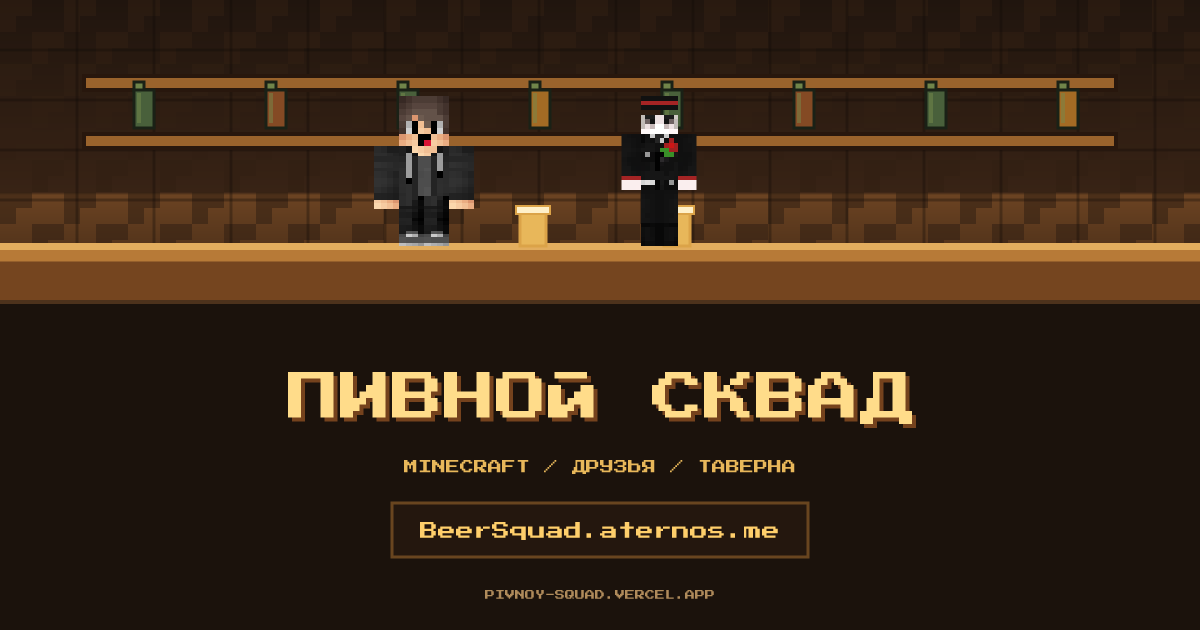
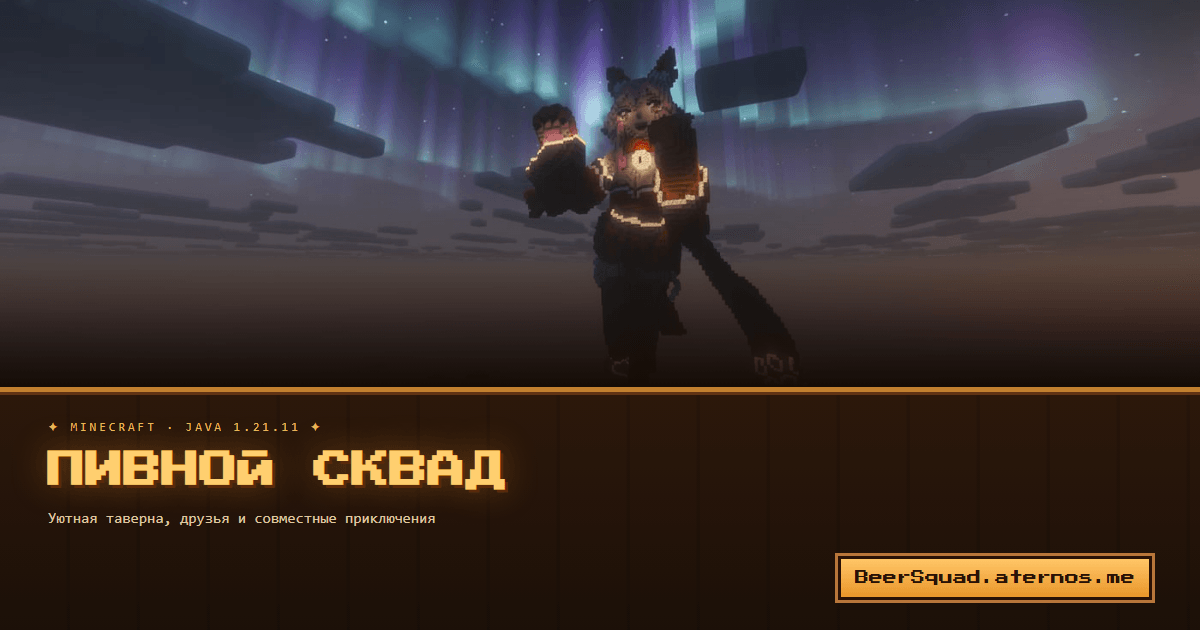
Галерея «Наши края», лайтбокс, кэш статуса, кнопка «наверх» и новое превью

diff --git a/index.html b/index.html
@@ -1,9 +1,10 @@
-<!doctype html><html lang="ru"><head><meta charset="utf-8"><meta name="viewport" content="width=device-width,initial-scale=1"><title>Пивной Сквад — Minecraft-сервер</title><meta name="description" content="Minecraft-сервер «Пивной Сквад»: уютная таверна, друзья и совместные приключения. Адрес сервера BeerSquad.aternos.me, есть Discord."><meta name="theme-color" content="#160f0a"><meta property="og:type" content="website"><meta property="og:site_name" content="Пивной Сквад"><meta property="og:title" content="Пивной Сквад — Minecraft-сервер"><meta property="og:description" content="Minecraft, друзья и уютная таверна после долгих приключений. Заходи на сервер BeerSquad.aternos.me."><meta property="og:url" content="https://pivnoy-squad.vercel.app/"><meta property="og:locale" content="ru_RU"><meta name="twitter:card" content="summary_large_image"><meta property="og:image" content="https://pivnoy-squad.vercel.app/assets/og-image.png"><meta property="og:image:width" content="1200"><meta property="og:image:height" content="630"><meta property="og:image:alt" content="Таверна Пивного Сквада: два скина у стойки и вывеска"><meta name="twitter:image" content="https://pivnoy-squad.vercel.app/assets/og-image.png"><link rel="icon" href="/assets/favicon.svg" type="image/svg+xml"><link rel="icon" href="/assets/favicon-32.png" sizes="32x32" type="image/png"><link rel="apple-touch-icon" href="/assets/apple-touch-icon.png"><script>try{var psT=localStorage.getItem("ps-theme");if(psT==="dark"||(!psT&&matchMedia("(prefers-color-scheme:dark)").matches))document.documentElement.classList.add("dark")}catch(e){}</script><style>@font-face{font-family:'Press Start 2P';font-style:normal;font-weight:400;font-display:swap;src:url('/assets/fonts/pressstart2p-cyrillic.woff2') format('woff2');unicode-range:U+0301,U+0400-045F,U+0490-0491,U+04B0-04B1,U+2116}@font-face{font-family:'Press Start 2P';font-style:normal;font-weight:400;font-display:swap;src:url('/assets/fonts/pressstart2p-latin.woff2') format('woff2');unicode-range:U+0000-00FF,U+0131,U+0152-0153,U+02BB-02BC,U+02C6,U+02DA,U+02DC,U+0304,U+0308,U+0329,U+2000-206F,U+20AC,U+2122,U+2191,U+2193,U+2212,U+2215,U+FEFF,U+FFFD}
+<!doctype html><html lang="ru"><head><meta charset="utf-8"><meta name="viewport" content="width=device-width,initial-scale=1"><title>Пивной Сквад — Minecraft-сервер</title><meta name="description" content="Minecraft-сервер «Пивной Сквад»: уютная таверна, друзья и совместные приключения. Адрес сервера BeerSquad.aternos.me, есть Discord."><meta name="theme-color" content="#160f0a"><meta name="color-scheme" content="dark light"><meta property="og:type" content="website"><meta property="og:site_name" content="Пивной Сквад"><meta property="og:title" content="Пивной Сквад — Minecraft-сервер"><meta property="og:description" content="Minecraft, друзья и уютная таверна после долгих приключений. Заходи на сервер BeerSquad.aternos.me."><meta property="og:url" content="https://pivnoy-squad.vercel.app/"><meta property="og:locale" content="ru_RU"><meta name="twitter:card" content="summary_large_image"><meta property="og:image" content="https://pivnoy-squad.vercel.app/assets/og-image.png"><meta property="og:image:width" content="1200"><meta property="og:image:height" content="630"><meta property="og:image:alt" content="Полярное сияние над парящими островами и вывеска таверны Пивного Сквада"><meta name="twitter:image" content="https://pivnoy-squad.vercel.app/assets/og-image.png"><link rel="icon" href="/assets/favicon.svg" type="image/svg+xml"><link rel="icon" href="/assets/favicon-32.png" sizes="32x32" type="image/png"><link rel="apple-touch-icon" href="/assets/apple-touch-icon.png"><link rel="preload" href="/assets/fonts/pressstart2p-cyrillic.woff2" as="font" type="font/woff2" crossorigin><script>try{var psT=localStorage.getItem("ps-theme");if(psT==="dark"||(!psT&&matchMedia("(prefers-color-scheme:dark)").matches))document.documentElement.classList.add("dark")}catch(e){}</script><style>@font-face{font-family:'Press Start 2P';font-style:normal;font-weight:400;font-display:swap;src:url('/assets/fonts/pressstart2p-cyrillic.woff2') format('woff2');unicode-range:U+0301,U+0400-045F,U+0490-0491,U+04B0-04B1,U+2116}@font-face{font-family:'Press Start 2P';font-style:normal;font-weight:400;font-display:swap;src:url('/assets/fonts/pressstart2p-latin.woff2') format('woff2');unicode-range:U+0000-00FF,U+0131,U+0152-0153,U+02BB-02BC,U+02C6,U+02DA,U+02DC,U+0304,U+0308,U+0329,U+2000-206F,U+20AC,U+2122,U+2191,U+2193,U+2212,U+2215,U+FEFF,U+FFFD}
 *{box-sizing:border-box}html{scroll-behavior:smooth}body{margin:0;padding:26px 12px;background:#150c06;color:#fff0c9;font-family:ui-monospace,'Cascadia Mono',Consolas,'Liberation Mono','Courier New',monospace;background-image:radial-gradient(130% 72% at 50% -8%,#6b3a17cc 0%,#3a1f0d66 44%,transparent 74%),repeating-linear-gradient(90deg,transparent 0 46px,#0000002b 47px 50px),repeating-linear-gradient(180deg,transparent 0 132px,#0000001a 133px 136px),linear-gradient(#1e1109,#120b06)} .wrap{width:min(900px,100%);margin:auto;min-width:0}.top{display:flex;justify-content:space-between;gap:8px;flex-wrap:wrap;color:#e8b75a;font-size:10px;letter-spacing:1px;margin-bottom:12px}.pixel{font-family:'Press Start 2P',monospace}.jump{display:flex;gap:7px;justify-content:center;flex-wrap:wrap;margin:12px 0 18px}.jump a{color:#ffcf6b;text-decoration:none;border:2px solid #532e13;background:linear-gradient(#321b0d,#221209);padding:9px;font-size:11px;box-shadow:inset 0 2px 0 #6b3d1b,0 3px 0 #0a0503}
 .jump a:nth-child(1){transform:rotate(-1.7deg)}
 .jump a:nth-child(2){transform:rotate(1deg)}
 .jump a:nth-child(3){transform:rotate(-.9deg)}
-.jump a:nth-child(4){transform:rotate(1.5deg)}.scene{height:clamp(320px,58vw,470px);position:relative;overflow:hidden;border:4px solid #2a1408;background:linear-gradient(#170d07,#2e190c 60%,#3d2311 64%,#241207);box-shadow:0 0 0 3px #0a0503,inset 0 0 70px 22px #0b0603a6}
+.jump a:nth-child(4){transform:rotate(1.5deg)}
+.jump a:nth-child(5){transform:rotate(-1.1deg)}.scene{height:clamp(320px,58vw,470px);position:relative;overflow:hidden;border:4px solid #2a1408;background:linear-gradient(#170d07,#2e190c 60%,#3d2311 64%,#241207);box-shadow:0 0 0 3px #0a0503,inset 0 0 70px 22px #0b0603a6}
 .scene:before{content:"";position:absolute;inset:0;background:repeating-linear-gradient(90deg,transparent 0 51px,#0b060466 52px 55px),repeating-linear-gradient(90deg,#ffffff09 0 26px,transparent 26px 78px,#0000001f 78px 82px),repeating-linear-gradient(0deg,transparent 0 38px,#0b060452 39px 42px)}
 .scene:after{content:"";position:absolute;inset:0;z-index:2;pointer-events:none;background:radial-gradient(38% 42% at 7% 16%,#ff9a2e55,transparent 72%),radial-gradient(38% 42% at 93% 14%,#ff9a2e4a,transparent 72%),radial-gradient(56% 44% at 50% 94%,#ff9a2e38,transparent 76%),radial-gradient(64% 40% at 50% 54%,#ff8a1f1a,transparent 78%),radial-gradient(26% 30% at 30% 34%,#ffb34726,transparent 78%),radial-gradient(26% 30% at 70% 34%,#ffb34722,transparent 78%)}
 .post{position:absolute;top:0;bottom:0;width:3.5%;max-width:22px;background:linear-gradient(90deg,#180d06,#4c2c15 45%,#2a160a);border-right:2px solid #120a05;box-shadow:inset -6px 0 12px #00000059;z-index:3}
@@ -67,7 +68,19 @@
 @media(max-width:820px){.cask3{display:none}}
 @keyframes ln-flicker{0%,100%{filter:brightness(1)}48%{filter:brightness(1.14)}52%{filter:brightness(.96)}}
 @keyframes ps-puff{0%{opacity:0;transform:translateY(3px)}16%{opacity:.95}68%{opacity:.5}100%{opacity:0;transform:translateY(-9px)}}
-.content,.panel{background:repeating-linear-gradient(90deg,transparent 0 66px,#0000001f 67px 70px),linear-gradient(#2c180b,#1c1008);border:3px solid #3b1e0c;text-align:center;padding:clamp(18px,4vw,30px) clamp(12px,4vw,22px);margin-top:16px;min-width:0;overflow:hidden;box-shadow:inset 0 3px 0 #603314,inset 0 -4px 0 #0f0703,0 5px 0 #0a0503}.content{margin-top:0;border-top:0}.eyebrow{color:#e8b75a;font-size:10px;letter-spacing:1px;margin-bottom:18px}.title{font-size:clamp(18px,4.7vw,38px);line-height:1.5;color:#ffcf6f;text-shadow:3px 3px 0 #5a2a0a,0 0 30px #ffa63c4d;margin:0 0 14px;overflow-wrap:anywhere}.desc{font-size:clamp(13px,2.2vw,17px);line-height:1.8;color:#dfc9a4;max-width:650px;margin:0 auto 22px}.buttons{display:flex;justify-content:center;gap:10px;flex-wrap:wrap}.btn{display:inline-block;text-decoration:none;padding:13px 14px;border:3px solid #2a1206;background:linear-gradient(#ffc668,#e9962b);color:#2a1206;font-size:10px;box-shadow:0 0 0 3px #b8763a,4px 5px 0 #0b0603,0 0 24px #ff9a2e3d}
+.content,.panel{background:repeating-linear-gradient(90deg,transparent 0 66px,#0000001f 67px 70px),linear-gradient(#2c180b,#1c1008);border:3px solid #3b1e0c;text-align:center;padding:clamp(18px,4vw,30px) clamp(12px,4vw,22px);margin-top:16px;min-width:0;overflow:hidden;box-shadow:inset 0 3px 0 #603314,inset 0 -4px 0 #0f0703,0 5px 0 #0a0503}.content{margin-top:0;border-top:0}.eyebrow{color:#e8b75a;font-size:10px;letter-spacing:1px;margin-bottom:18px}.title{font-size:clamp(18px,4.7vw,38px);line-height:1.5;color:#ffcf6f;text-shadow:3px 3px 0 #5a2a0a,0 0 30px #ffa63c4d;margin:0 0 14px;overflow-wrap:anywhere}.desc{font-size:clamp(13px,2.2vw,17px);line-height:1.8;color:#dfc9a4;max-width:650px;margin:0 auto 22px}
+.shots{display:grid;grid-template-columns:repeat(3,1fr);gap:clamp(8px,1.6vw,14px);margin-top:4px}
+.shot{margin:0;background:linear-gradient(#2a1709,#1a0e06);border:3px solid #6b3f17;padding:6px;transform:rotate(-.6deg);box-shadow:0 0 0 3px #0c0703,0 8px 18px #00000073,inset 0 0 0 2px #ffd79a26}
+.shot:nth-child(even){transform:rotate(.6deg)}
+.shot.wide{grid-column:1/-1;transform:rotate(-.25deg)}
+.shot img{display:block;width:100%;height:auto;aspect-ratio:16/9;object-fit:cover;background:#0b0603;border:2px solid #241207}
+.shot a{display:block;cursor:zoom-in;text-decoration:none}
+.shot a:focus-visible{outline:3px solid #ffd777;outline-offset:3px}
+.shot figcaption{padding:8px 2px 2px;font-size:10px;letter-spacing:1px;text-transform:uppercase;color:#e8b75a;text-align:center}
+html.dark body .shot{background:linear-gradient(#1d1208,#150d07);border-color:#55320f;box-shadow:0 0 0 3px #0a0503,0 8px 18px #000000a6,inset 0 0 0 2px #ffd79a1f}
+@media(max-width:640px){.shots{grid-template-columns:repeat(2,1fr)}.shot.wide{grid-column:1/-1}}
+@media(max-width:480px){.shots{grid-template-columns:1fr}.shot.wide{grid-column:auto}}
+.buttons{display:flex;justify-content:center;gap:10px;flex-wrap:wrap}.btn{display:inline-block;text-decoration:none;padding:13px 14px;border:3px solid #2a1206;background:linear-gradient(#ffc668,#e9962b);color:#2a1206;font-size:10px;box-shadow:0 0 0 3px #b8763a,4px 5px 0 #0b0603,0 0 24px #ff9a2e3d}
 .btn.ghost{cursor:pointer;font-family:inherit;letter-spacing:1px;background:linear-gradient(#3b2010,#241309);color:#ffcf6b;border-color:#2a1206;box-shadow:0 0 0 3px #6b3d1b,4px 5px 0 #0b0603}
 .buttons .btn{min-width:15ch;text-align:center}.ip{margin-top:16px;border:3px solid #45250f;background:linear-gradient(#241408,#1a0f07);padding:14px;display:flex;align-items:center;justify-content:space-between;gap:12px;flex-wrap:wrap;min-width:0;box-shadow:inset 0 2px 0 #55300f,0 4px 0 #0a0503}.ip small{display:block;color:#bda17a;font-size:10px;margin-bottom:8px}.ip strong{font-family:'Press Start 2P',monospace;font-size:clamp(9px,2.4vw,15px);color:#ffcf6b;overflow-wrap:anywhere}.copy{cursor:pointer;border:2px solid #8b5a2b;background:linear-gradient(#3d2411,#2a1709);color:#ffe7b2;padding:10px;font-family:inherit;font-size:10px;box-shadow:inset 0 2px 0 #5e3317,0 3px 0 #0a0503}.panel h2{font-family:'Press Start 2P',monospace;font-size:clamp(13px,3vw,21px);line-height:1.7;color:#ffcf6f;text-shadow:2px 2px 0 #5a2a0a;margin:0 0 20px;overflow-wrap:anywhere}.panel p{font-size:15px;line-height:1.8;color:#dfc9a4;text-align:left;margin:0 auto 13px;max-width:720px}.notice{display:flex;gap:12px;text-align:left;align-items:flex-start;padding:13px;border:2px solid #532e13;background:linear-gradient(#2a170c,#1d1008);margin:12px 0;box-shadow:inset 0 2px 0 #5e3317}.pin{font-size:22px;color:#e8b75a}.notice strong{display:block;color:#ffdc8a;font-size:15px;margin-bottom:7px}.notice p{font-size:14px;line-height:1.7;margin:0}.foot{text-align:center;color:#b08b5b;font-size:11px;margin:22px 0;letter-spacing:1px}
 @media(max-width:480px){body{padding:18px 9px}.scene{height:320px}.character{height:145px;width:78px;bottom:18%}.char1{left:calc(50% - 92px)}.char2{left:calc(50% + 14px)}.skin{height:120px}.mugleft{left:calc(50% - 76px)}.mugright{left:calc(50% + 55px)}.sign{font-size:7px;padding:7px 10px;letter-spacing:0}.menu{display:none}.jump a{font-size:10px;padding:8px}.desc{line-height:1.7}.panel p{font-size:14px}.ip{align-items:flex-start}.copy{max-width:100%}}
@@ -138,6 +151,7 @@ html.dark body .step-num{background:#ffcf6f;color:#241408;box-shadow:2px 2px #4a
 .status-dot{width:10px;height:10px;flex:none;background:#8a7a63;box-shadow:0 0 0 1px #00000066}
 .status strong{font-size:10px;font-weight:400;letter-spacing:1px;color:#dfc9a4;line-height:1.6}
 .status-note{font-size:10px;letter-spacing:1px;color:#bda17a;line-height:1.6;padding-left:20px;min-width:0;max-width:100%;overflow:hidden;text-overflow:ellipsis;white-space:nowrap}
+.status-time{margin-left:auto;flex:none;font-size:9px;letter-spacing:.5px;color:#a58c69;white-space:nowrap;font-variant-numeric:tabular-nums}
 .status[data-state=online] .status-dot{background:#7fd25a;animation:ps-pulse 2.4s ease-in-out infinite}
 .status[data-state=online] strong{color:#bfe89a}
 .status[data-state=sleep] .status-dot{background:#e8b75a}
@@ -153,8 +167,29 @@ html.dark body .content,html.dark body .panel,html.dark body .ip,html.dark body 
 html.dark body .btn{box-shadow:0 0 0 3px #4a2c17,4px 5px 0 #0a0503}
 html.dark body .btn.ghost{box-shadow:3px 3px #0f0703}
 @media(min-width:821px){.title{transform:rotate(-1.1deg)}}
-</style></head><body><main class="wrap"><div class="top"><span>■ ПИВНОЙ СКВАД</span><span>JAVA · 1.21.11</span><button class="theme-toggle" id="themeToggle" type="button" aria-pressed="false"><span class="tt-ghost" aria-hidden="true">☀ СВЕТЛАЯ ТЕМА</span><span class="tt-live" id="themeLabel">☾ ТЁМНАЯ ТЕМА</span></button></div><nav class="jump"><a href="#taverna">ТАВЕРНА</a><a href="#start">КАК НАЧАТЬ</a><a href="#story">ИСТОРИЯ СКВАДА</a><a href="#board">ОБЪЯВЛЕНИЯ</a></nav>
-<section id="taverna" class="scene" aria-label="Таверна Пивного Сквада">
+@keyframes sign-sway{0%,100%{transform:translateX(-50%) rotate(-1.2deg)}50%{transform:translateX(-50%) rotate(-.65deg)}}
+.sign{animation:sign-sway 12s ease-in-out infinite}
+html.dark body .status-time{color:#9c8464}
+.lb{position:fixed;inset:0;z-index:60;display:grid;grid-template-columns:auto minmax(0,1fr) auto;align-items:center;justify-items:center;gap:clamp(4px,1.4vw,18px);padding:clamp(8px,2.4vw,26px);background:#070402fb}
+.lb[hidden]{display:none}
+.lb-fig{margin:0;min-width:0;max-height:100%;display:grid;justify-items:center;gap:10px}
+.lb img{max-width:100%;max-height:calc(100vh - 130px);width:auto;height:auto;border:3px solid #7a4a1e;background:#0b0603;box-shadow:0 0 0 3px #0c0703,0 18px 46px #000000b3}
+.lb figcaption{font-size:11px;letter-spacing:1px;text-transform:uppercase;color:#ffcf6b;text-align:center}
+.lb button{cursor:pointer;font-family:inherit;color:#ffcf6b;border:3px solid #532e13;background:linear-gradient(#321b0d,#221209);box-shadow:0 0 0 3px #0a0503,0 4px 0 #0a0503;width:clamp(36px,7vw,46px);height:clamp(36px,7vw,46px);font-size:20px;line-height:1;display:grid;place-items:center;padding:0}
+.lb button:hover{filter:brightness(1.12)}
+.lb-x{position:absolute;top:clamp(8px,2vw,18px);right:clamp(8px,2vw,18px);font-size:16px}
+.lb-count{position:absolute;left:0;right:0;bottom:clamp(6px,1.6vw,14px);text-align:center;font-size:10px;letter-spacing:1px;color:#bda17a;pointer-events:none;font-variant-numeric:tabular-nums}
+@media(max-width:560px){.lb{grid-template-columns:minmax(0,1fr);padding:10px 6px}.lb-prev,.lb-next{position:absolute;top:50%;transform:translateY(-50%);z-index:2}.lb-prev{left:6px}.lb-next{right:6px}.lb img{max-height:calc(100vh - 120px)}.lb figcaption{font-size:10px}}
+html.lb-open{overflow:hidden}
+.to-top{position:fixed;right:clamp(10px,2vw,20px);bottom:clamp(10px,2vw,20px);z-index:30;width:44px;height:44px;display:grid;place-items:center;padding:0;cursor:pointer;font-family:inherit;font-size:17px;line-height:1;color:#ffcf6b;border:3px solid #532e13;background:linear-gradient(#321b0d,#221209);box-shadow:0 0 0 3px #0a0503,0 4px 0 #0a0503;opacity:0;visibility:hidden;transform:translateY(8px);transition:opacity .22s,transform .22s,visibility .22s}
+.to-top.show{opacity:1;visibility:visible;transform:none}
+.to-top:hover{filter:brightness(1.12)}
+html.dark body .to-top{background:#1d1208;border-color:#55320f;box-shadow:0 0 0 3px #0a0503,3px 3px #0f0703}
+.skip{position:absolute;left:8px;top:-70px;z-index:70;padding:10px 14px;background:#ffcf6f;color:#241408;font-size:11px;letter-spacing:1px;text-decoration:none;border:3px solid #241408;transition:top .18s}
+.skip:focus{top:8px}
+@media(prefers-reduced-motion:reduce){.sign{animation:none}.to-top,.skip{transition:none}}
+</style></head><body><a class="skip" href="#taverna">Перейти к содержимому</a><main class="wrap"><div class="top"><span>■ ПИВНОЙ СКВАД</span><span>JAVA · 1.21.11</span><button class="theme-toggle" id="themeToggle" type="button" aria-pressed="false"><span class="tt-ghost" aria-hidden="true">☀ СВЕТЛАЯ ТЕМА</span><span class="tt-live" id="themeLabel">☾ ТЁМНАЯ ТЕМА</span></button></div><nav class="jump"><a href="#taverna">ТАВЕРНА</a><a href="#start">КАК НАЧАТЬ</a><a href="#story">ИСТОРИЯ СКВАДА</a><a href="#mir">МИР СКВАДА</a><a href="#board">ОБЪЯВЛЕНИЯ</a></nav>
+<section id="taverna" class="scene" tabindex="-1" aria-label="Таверна Пивного Сквада">
 <div class="post l" aria-hidden="true"></div><div class="post r" aria-hidden="true"></div>
 <div class="lantern ln1" aria-hidden="true"><i class="chain"></i></div><div class="lantern ln2" aria-hidden="true"><i class="chain"></i></div>
 <div class="sign">ТАВЕРНА СКВАДА</div>
@@ -202,11 +237,14 @@ html.dark body .btn.ghost{box-shadow:3px 3px #0f0703}
 </svg></section>
 <section class="content"><div class="eyebrow">✦ ЗАХОДИ В ТАВЕРНУ ✦</div><h1 class="title pixel">ПИВНОЙ СКВАД</h1><p class="desc">Minecraft, друзья и уютная таверна после долгих приключений. Строим, исследуем мир и собираемся у стойки после удачного похода!</p><div class="buttons"><a class="btn" href="https://discord.gg/PFUcCRhGb" target="_blank" rel="noreferrer">▣ НАШ DISCORD</a><button class="btn ghost" id="shareBtn" type="button">↗ ПОДЕЛИТЬСЯ</button></div><span class="sr-only" id="shareStatus" aria-live="polite"></span></section>
 <section class="ip"><div><small>АДРЕС ДЛЯ ПОДКЛЮЧЕНИЯ</small><strong>BeerSquad.aternos.me</strong></div><button class="copy" onclick="navigator.clipboard.writeText('BeerSquad.aternos.me').then(()=>{this.textContent='СКОПИРОВАНО!';document.getElementById('copyStatus').textContent='Адрес скопирован'}).catch(()=>{this.textContent='BeerSquad.aternos.me';document.getElementById('copyStatus').textContent='Не удалось скопировать, адрес показан на кнопке'})">КОПИРОВАТЬ IP</button><span class="sr-only" id="copyStatus" aria-live="polite"></span></section>
-<section class="status" id="srvStatus" data-state="loading" aria-live="polite"><div class="status-main"><span class="status-dot" aria-hidden="true"></span><strong id="srvState">ПРОВЕРЯЕМ СЕРВЕР…</strong></div><span class="status-note" id="srvNote">BeerSquad.aternos.me</span></section>
+<section class="status" id="srvStatus" data-state="loading" aria-live="polite"><div class="status-main"><span class="status-dot" aria-hidden="true"></span><strong id="srvState">ПРОВЕРЯЕМ СЕРВЕР…</strong><span class="status-time" id="srvTime" aria-hidden="true"></span></div><span class="status-note" id="srvNote">BeerSquad.aternos.me</span></section>
 <section id="start" class="panel"><div class="eyebrow">✦ ПЕРВЫЕ ШАГИ ✦</div><h2>КАК НАЧАТЬ ИГРАТЬ</h2><div class="steps"><div class="step"><span class="step-num" aria-hidden="true">1</span><strong>Запусти Minecraft</strong><p>Нужен Java Edition версии 1.21.11 — Bedrock не подойдёт. Заходи под своим аккаунтом Microsoft.</p></div><div class="step"><span class="step-num" aria-hidden="true">2</span><strong>Добавь сервер</strong><p>«Сетевая игра» → «Добавить сервер» → адрес <b>BeerSquad.aternos.me</b>. Если он спит, попроси разбудить в Discord.</p></div><div class="step"><span class="step-num" aria-hidden="true">3</span><strong>Загляни в Discord</strong><p>Там договариваются о вылазках, делятся координатами и показывают постройки. <a href="https://discord.gg/PFUcCRhGb" target="_blank" rel="noreferrer">Вступить</a>.</p></div></div></section>
 <section id="story" class="panel"><div class="eyebrow">✦ ЛЕТОПИСЬ ✦</div><h2>ИСТОРИЯ СКВАДА</h2><p>Говорят, когда-то на краю большого кубического леса стояла маленькая хижина с кривой вывеской и одной-единственной бочкой. Её построил странник, который устал путешествовать в одиночку и мечтал о месте, где всегда найдётся свободное место у огня.</p><p>Однажды вечером туда заглянули шахтёр с киркой, строитель с карманами, полными булыжника, и исследователь, который заблудился по дороге домой. Они поделились припасами, рассказали истории о пещерах и сокровищах, а на рассвете решили не расходиться.</p><p>Так появилась таверна Сквада. Здесь ценят не идеальные постройки и богатые сундуки, а друзей, совместные приключения и истории, которые потом вспоминают всем сервером.</p><p>И говорят, что если ночью вдалеке мерцает свет фонаря, значит, таверна всё ещё ждёт новых путешественников.</p></section>
-<section id="board" class="panel"><div class="eyebrow">✦ ВАЖНО ДЛЯ ИГРОКОВ ✦</div><h2>ДОСКА ОБЪЯВЛЕНИЙ</h2><div class="notice"><div class="pin">📌</div><div><strong>Добро пожаловать!</strong><p>Здесь будут появляться новости сервера, события, конкурсы и важные изменения.</p></div></div><div class="notice"><div class="pin">🪓</div><div><strong>Идеи для общего мира</strong><p>Есть идея для общего проекта? Обсуди её с друзьями в Discord и помоги сделать мир Сквада интереснее.</p></div></div></section><div class="foot">ТВОЯ ТАВЕРНА В МИРЕ MINECRAFT</div></main><script>const themeToggle=document.getElementById("themeToggle");const root=document.documentElement;const applyTheme=()=>{const dark=root.classList.contains("dark");document.getElementById("themeLabel").textContent=dark?"☀ СВЕТЛАЯ ТЕМА":"☾ ТЁМНАЯ ТЕМА";themeToggle.setAttribute("aria-pressed",String(dark));const mc=document.querySelector('meta[name="theme-color"]');if(mc)mc.setAttribute("content",dark?"#120a05":"#160f0a");};themeToggle.addEventListener("click",()=>{const dark=root.classList.toggle("dark");try{localStorage.setItem("ps-theme",dark?"dark":"light")}catch(e){}applyTheme();});applyTheme();
+<section id="mir" class="panel"><div class="eyebrow">✦ МИР СКВАДА ✦</div><h2>НАШИ КРАЯ</h2><p class="desc">Реальные кадры с сервера: полярные сияния, парящие острова и огни на снегу.</p><div class="shots"><figure class="shot wide"><a class="shot-link" href="/assets/shots/aurora.jpg" aria-label="Открыть кадр «Сияние над островами»"><img src="/assets/shots/aurora.jpg" alt="Полярное сияние над парящими островами" width="1400" height="788"></a><figcaption>Сияние над островами</figcaption></figure><figure class="shot"><a class="shot-link" href="/assets/shots/night-watch.jpg" aria-label="Открыть кадр «Ночной дозор»"><img src="/assets/shots/night-watch.jpg" alt="Фигура на холме под звёздным небом" width="1400" height="788"></a><figcaption>Ночной дозор</figcaption></figure><figure class="shot"><a class="shot-link" href="/assets/shots/traces.jpg" aria-label="Открыть кадр «Светящиеся следы»"><img src="/assets/shots/traces.jpg" alt="Светящиеся следы на фоне ночного неба" width="1400" height="788"></a><figcaption>Светящиеся следы</figcaption></figure><figure class="shot"><a class="shot-link" href="/assets/shots/edge.jpg" aria-label="Открыть кадр «Под луной»"><img src="/assets/shots/edge.jpg" alt="Силуэт с крыльями в лунном свете" width="1400" height="788"></a><figcaption>Под луной</figcaption></figure></div></section>
+<section id="board" class="panel"><div class="eyebrow">✦ ВАЖНО ДЛЯ ИГРОКОВ ✦</div><h2>ДОСКА ОБЪЯВЛЕНИЙ</h2><div class="notice"><div class="pin">📌</div><div><strong>Добро пожаловать!</strong><p>Здесь будут появляться новости сервера, события, конкурсы и важные изменения.</p></div></div><div class="notice"><div class="pin">🪓</div><div><strong>Идеи для общего мира</strong><p>Есть идея для общего проекта? Обсуди её с друзьями в Discord и помоги сделать мир Сквада интереснее.</p></div></div></section><div class="foot">ТВОЯ ТАВЕРНА В МИРЕ MINECRAFT</div></main><div class="lb" id="lightbox" role="dialog" aria-modal="true" aria-label="Просмотр кадра" hidden><button class="lb-x" id="lbClose" type="button" aria-label="Закрыть просмотр">✕</button><button class="lb-prev" id="lbPrev" type="button" aria-label="Предыдущий кадр">‹</button><figure class="lb-fig"><img id="lbImg" alt=""><figcaption id="lbCap"></figcaption></figure><button class="lb-next" id="lbNext" type="button" aria-label="Следующий кадр">›</button><span class="lb-count" id="lbCount"></span></div><button class="to-top" id="toTop" type="button" aria-label="Наверх" title="Наверх">▲</button><script>const themeToggle=document.getElementById("themeToggle");const root=document.documentElement;const applyTheme=()=>{const dark=root.classList.contains("dark");document.getElementById("themeLabel").textContent=dark?"☀ СВЕТЛАЯ ТЕМА":"☾ ТЁМНАЯ ТЕМА";themeToggle.setAttribute("aria-pressed",String(dark));const mc=document.querySelector('meta[name="theme-color"]');if(mc)mc.setAttribute("content",dark?"#120a05":"#160f0a");};themeToggle.addEventListener("click",()=>{const dark=root.classList.toggle("dark");try{localStorage.setItem("ps-theme",dark?"dark":"light")}catch(e){}applyTheme();});applyTheme();
 const themeQuery=matchMedia("(prefers-color-scheme:dark)");themeQuery.addEventListener("change",e=>{let saved=null;try{saved=localStorage.getItem("ps-theme")}catch(_){}if(saved)return;root.classList.toggle("dark",e.matches);applyTheme();});
 (()=>{const b=document.getElementById("shareBtn");if(!b)return;const s=document.getElementById("shareStatus");const label=b.textContent;const done=t=>{s.textContent=t;b.textContent="СКОПИРОВАНО";setTimeout(()=>{b.textContent=label},2400)};b.addEventListener("click",async()=>{const url=location.origin+location.pathname;const data={title:document.title,text:"Пивной Сквад — Minecraft-сервер",url};if(navigator.share){try{await navigator.share(data);s.textContent="Ссылка отправлена";return}catch(e){if(e&&e.name==="AbortError")return}}try{await navigator.clipboard.writeText(url);done("Ссылка скопирована")}catch(e){s.textContent="Не удалось скопировать ссылку"}})})();
-(()=>{const box=document.getElementById("srvStatus");if(!box)return;const stateEl=document.getElementById("srvState");const noteEl=document.getElementById("srvNote");const HOST="BeerSquad.aternos.me";const clean=v=>String(v||"").replace(/§./g,"").trim();const line=v=>clean([].concat(v||[]).join(" "));const show=(s,t,n)=>{box.dataset.state=s;stateEl.textContent=t;noteEl.textContent=n;};async function load(){const c=new AbortController();const timer=setTimeout(()=>c.abort(),8000);try{const r=await fetch("https://api.mcsrvstat.us/3/"+HOST,{signal:c.signal});if(!r.ok)throw new Error(r.status);const d=await r.json();if(!d.online){show("offline","СЕРВЕР ОФЛАЙН","Запусти его в панели Aternos");return}const asleep=/offline/i.test(line(d.version))||/this server is offline/i.test(line(d.motd&&d.motd.clean));if(asleep){show("sleep","СЕРВЕР СПИТ","Aternos включает его по запросу");return}const p=d.players||{};const on=p.online||0;const max=p.max||0;const names=(p.list||[]).map(x=>clean(x.name)).filter(Boolean);const note=names.length?names.slice(0,6).join(", ")+(names.length>6?" и ещё "+(names.length-6):""):"Таверна открыта, заходи";show("online","СЕРВЕР ОНЛАЙН · "+on+(max?"/"+max:""),note)}catch(e){show("unknown","СТАТУС НЕДОСТУПЕН","Сервер "+HOST)}finally{clearTimeout(timer)}}load();setInterval(load,60000);document.addEventListener("visibilitychange",()=>{if(!document.hidden)load()})})();
+(()=>{const box=document.getElementById("srvStatus");if(!box)return;const stateEl=document.getElementById("srvState");const noteEl=document.getElementById("srvNote");const timeEl=document.getElementById("srvTime");const HOST="BeerSquad.aternos.me";const KEY="ps-srv";const clean=v=>String(v||"").replace(/§./g,"").trim();const line=v=>clean([].concat(v||[]).join(" "));const clock=t=>{const d=new Date(t);return String(d.getHours()).padStart(2,"0")+":"+String(d.getMinutes()).padStart(2,"0")};const paint=(o,stale)=>{box.dataset.state=o.s;stateEl.textContent=o.t;noteEl.textContent=o.n;if(!timeEl)return;if(o.t0){timeEl.textContent=(stale?"кэш ":"")+clock(o.t0);timeEl.title=stale?"Данные с прошлой удачной проверки":"Обновлено в "+clock(o.t0)}else{timeEl.textContent="";timeEl.removeAttribute("title")}};const save=o=>{try{localStorage.setItem(KEY,JSON.stringify(o))}catch(e){}};const cache=()=>{try{const o=JSON.parse(localStorage.getItem(KEY)||"null");return o&&o.t0&&Date.now()-o.t0<5184e5?o:null}catch(e){return null}};async function load(){const c=new AbortController();const timer=setTimeout(()=>c.abort(),8000);try{const r=await fetch("https://api.mcsrvstat.us/3/"+HOST,{signal:c.signal});if(!r.ok)throw new Error(r.status);const d=await r.json();let o;if(!d.online){o={s:"offline",t:"СЕРВЕР ОФЛАЙН",n:"Запусти его в панели Aternos"}}else if(/offline/i.test(line(d.version))||/this server is offline/i.test(line(d.motd&&d.motd.clean))){o={s:"sleep",t:"СЕРВЕР СПИТ",n:"Aternos включает его по запросу"}}else{const p=d.players||{};const on=p.online||0;const max=p.max||0;const names=(p.list||[]).map(x=>clean(x.name)).filter(Boolean);o={s:"online",t:"СЕРВЕР ОНЛАЙН · "+on+(max?"/"+max:""),n:names.length?names.slice(0,6).join(", ")+(names.length>6?" и ещё "+(names.length-6):""):"Таверна открыта, заходи"}}o.t0=Date.now();save(o);paint(o,false)}catch(e){const c2=cache();if(c2)paint(c2,true);else paint({s:"unknown",t:"СТАТУС НЕДОСТУПЕН",n:"Сервер "+HOST},false)}finally{clearTimeout(timer)}}load();setInterval(load,60000);document.addEventListener("visibilitychange",()=>{if(!document.hidden)load()})})();
+(()=>{const lb=document.getElementById("lightbox");if(!lb)return;const links=[].slice.call(document.querySelectorAll(".shot a"));if(!links.length)return;const img=document.getElementById("lbImg");const cap=document.getElementById("lbCap");const cnt=document.getElementById("lbCount");const closeBtn=document.getElementById("lbClose");const prevBtn=document.getElementById("lbPrev");const nextBtn=document.getElementById("lbNext");let idx=0;let restoreFocus=null;const render=n=>{idx=(n+links.length)%links.length;const a=links[idx];img.src=a.getAttribute("href");const inner=a.querySelector("img");img.alt=inner?inner.alt:"";const fig=a.parentNode.querySelector("figcaption");cap.textContent=fig?fig.textContent:"";cnt.textContent=(idx+1)+" / "+links.length};const open=n=>{restoreFocus=document.activeElement;render(n);lb.hidden=false;document.documentElement.classList.add("lb-open");closeBtn.focus()};const close=()=>{lb.hidden=true;document.documentElement.classList.remove("lb-open");if(restoreFocus&&restoreFocus.focus)restoreFocus.focus()};links.forEach((a,n)=>a.addEventListener("click",e=>{if(e.metaKey||e.ctrlKey||e.shiftKey)return;e.preventDefault();open(n)}));closeBtn.addEventListener("click",close);prevBtn.addEventListener("click",()=>render(idx-1));nextBtn.addEventListener("click",()=>render(idx+1));lb.addEventListener("click",e=>{if(e.target===lb||e.target.classList.contains("lb-fig"))close()});document.addEventListener("keydown",e=>{if(lb.hidden)return;if(e.key==="Escape"){e.preventDefault();close();return}if(e.key==="ArrowLeft"){e.preventDefault();render(idx-1);return}if(e.key==="ArrowRight"){e.preventDefault();render(idx+1);return}if(e.key==="Tab"){const f=[closeBtn,prevBtn,nextBtn];const i=f.indexOf(document.activeElement);const next=f[(i+(e.shiftKey?-1:1)+f.length)%f.length];e.preventDefault();next.focus()}})})();
+(()=>{const b=document.getElementById("toTop");if(!b)return;let on=false;const tick=()=>{const s=window.pageYOffset>600;if(s!==on){on=s;b.classList.toggle("show",s)}};window.addEventListener("scroll",tick,{passive:true});tick();b.addEventListener("click",()=>{window.scrollTo({top:0,behavior:"smooth"})})})();
 </script></body></html>

diff --git a/AGENTS.md b/AGENTS.md
@@ -12,7 +12,10 @@
 - Ночная сцена имеет `viewBox="0 0 900 470"` и `preserveAspectRatio="xMidYMax slice"` — важные объекты держи в центральной половине ширины, иначе их срежет на телефоне.
 - Тема хранится в `localStorage` (`ps-theme`), класс `dark` ставится на `<html>`; в CSS поэтому селекторы `html.dark body`, а не `body.dark`. Если сохранённого выбора нет, тема берётся из `prefers-color-scheme`; сохранённый выбор всегда важнее системного.
 - `404.html` — отдельная страница в том же стиле (Vercel отдаёт её сама), тему берёт так же, переключателя на ней нет.
-- Статус сервера — блок `.status` под адресом IP. Данные тянет `fetch` к `api.mcsrvstat.us` (v3), состояния задаются атрибутом `data-state` (`online` / `sleep` / `offline` / `unknown`). Не увеличивай высоту блока от состояния к состоянию: список ников обрезается многоточием, иначе вёрстка прыгает.
+- Статус сервера — блок `.status` под адресом IP. Данные тянет `fetch` к `api.mcsrvstat.us` (v3), состояния задаются атрибутом `data-state` (`online` / `sleep` / `offline` / `unknown`). Не увеличивай высоту блока от состояния к состоянию: список ников обрезается многоточием, иначе вёрстка прыгает. Время последней проверки — плашка `.status-time` в той же строке, что и состояние; при неудачном запросе показывается последний удачный ответ из `localStorage` (`ps-srv`) с пометкой «кэш», поэтому блок не сваливается в «недоступен» при каждом сбое сети.
+- Галерея `#mir` («МИР СКВАДА» / «НАШИ КРАЯ») — реальные скриншоты с сервера из `assets/shots/` (JPEG 16:9, ~1400×788, по 20–45 КБ). Кадры оформлены как картины в рамах, первый — широкий. Подписи только нейтральные («Сияние над островами»), не придумывай названий мест, которых нет. Клик по кадру открывает лайтбокс (`#lightbox`): стрелки, Esc, свайп-кнопки, фокус возвращается на кадр. Каждая картинка обёрнута в `<a href>` на исходник — без JS кадр просто открывается в новой вкладке.
+- `assets/og-image.png` (1200×630) собирается вручную из `assets/shots/aurora.jpg`: верх — фото, низ — деревянная плашка с заголовком и IP. При смене главного кадра обновляй превью, иначе в Discord показывается старое.
+- Мелочи, которые легко сломать: кнопка «наверх» `.to-top` появляется после 600px прокрутки; скип-линк `.skip` ведёт на `#taverna` (у секции `tabindex="-1"`); у всех анимаций (фонари, пар, звёзды, дым, вывеска, кнопка «наверх») есть отключение в `@media(prefers-reduced-motion:reduce)` — сохраняй это.
 
 ## Проверка
 
@@ -20,7 +23,9 @@
 npx --yes serve . -l 3000
 ```
 
-Открыть http://localhost:3000. Автотестов нет; проверяй вручную обе темы, ширины 320 / 480 / 820 / десктоп, кнопку копирования IP и сохранение темы после перезагрузки.
+Открыть http://localhost:3000. Автотестов нет; проверяй вручную обе темы, ширины 320 / 480 / 820 / десктоп, кнопку копирования IP и сохранение темы после перезагрузки. Дополнительно: клик по кадру галереи (лайтбокс, стрелки, Esc), кнопка «наверх», статус при недоступном `mcsrvstat`.
+
+Для проверки удобно делать временные копии страницы в корне — `_light.html`, `_dark.html` (принудительная светлая/тёмная тема) и `_test-*.html` (харнессы в iframe: мобильные ширины, клики, измерения). Они в `.gitignore`, в коммит не попадают; после проверки удаляй.
 
 ## Сеть
 
@@ -38,3 +43,5 @@ $env:npm_config_https_proxy = "http://127.0.0.1:12334"
 - Git — портативный, `C:\Users\user\AppData\Local\Programs\PortableGit2\cmd` (уже в PATH пользователя).
 - Ветка `main`, коммиты короткие и по одной правке.
 - Деплой на Vercel статикой, репозиторий GitHub `xoribitxo-ship-it/pivnoy-squad` связан с проектом: пуш в `main` деплоит сам. Не создавай новый проект Vercel молча: адрес `pivnoy-squad.vercel.app` должен сохраниться.
+- Пуш сам по себе домен не переключает: после `vercel rollback` он остаётся привязан к старому деплою. Поэтому после пуша, если прод не обновился: `npx --yes vercel@latest --prod --yes`, затем `npx --yes vercel@latest alias set <прод-URL> pivnoy-squad.vercel.app`, и проверить, что файл на проде байт-в-байт совпадает с локальным (`curl` + SHA256).
+- Прямой доступ к `*.vercel.app` нестабилен (иногда `000` по таймауту), `github.com` и `api.vercel.com` работают. Ответ API Vercel можно смотреть скриптом с токеном из `%APPDATA%\com.vercel.cli\Data\auth.json`.

diff --git a/README.md b/README.md
@@ -12,8 +12,9 @@
 | `undead-sprite.png` | Скин Undead_xD, отдаётся по `/undead-sprite.png` |
 | `assets/skins/morethan-sprite.png` | Копия скина MoreThanSkill (в HTML он вшит как base64) |
 | `assets/fonts/` | Локальные woff2 `Press Start 2P` (кириллица и латиница) |
+| `assets/shots/` | Четыре скриншота с сервера для галереи «Наши края» (JPEG 16:9, 20–45 КБ) |
 | `assets/favicon.svg`, `favicon-32.png`, `apple-touch-icon.png` | Иконки сайта |
-| `assets/og-image.png` | Превью 1200×630 для Discord и соцсетей |
+| `assets/og-image.png` | Превью 1200×630 для Discord и соцсетей (собрано из `assets/shots/aurora.jpg`) |
 | `robots.txt`, `sitemap.xml` | Индексация |
 | `404.html` | Страница «не найдено» в стиле таверны, отдаётся Vercel автоматически |
 | `vercel.json` | Заголовки безопасности и кэш ассетов |
@@ -25,6 +26,14 @@
 Под адресом подключения есть полоска со статусом. Данные берутся на клиенте из публичного API `https://api.mcsrvstat.us/3/BeerSquad.aternos.me` (CORS открыт, ключ не нужен), обновление раз в минуту и при возврате на вкладку.
 
 Состояния: `СЕРВЕР ОНЛАЙН · N/M` со списком ников, `СЕРВЕР СПИТ` (Aternos отдаёт заглушку «This server is offline»), `СЕРВЕР ОФЛАЙН`, `СТАТУС НЕДОСТУПЕН` при ошибке сети. Полоска всегда одной высоты, длинный список ников обрезается многоточием — макеты не прыгают.
+
+Справа в полоске — время последней удачной проверки (при показе сохранённых данных — с пометкой «кэш»). Если запрос не прошёл, страница берёт прошлый ответ из `localStorage` (`ps-srv`, живёт 6 дней), поэтому «СТАТУС НЕДОСТУПЕН» видно только при самом первом запуске без сети.
+
+## Галерея
+
+Секция `#mir` («Наши края») — четыре реальных скриншота с сервера: широкий кадр с полярным сиянием и три в ряд, оформленные как картины в деревянных рамах. По клику кадр открывается на весь экран: стрелки и Esc (есть и кнопки по краям), фокус возвращается на выбранный кадр, фон страницы не прокручивается. Без JavaScript каждая картинка открывается как обычная ссылка на JPEG.
+
+Чтобы добавить кадр: положите JPEG 16:9 (примерно 1400×788, 20–50 КБ) в `assets/shots/`, продублируйте `<figure class="shot">` в секции `#mir` и не забудьте обёртку `<a class="shot-link" href="…">` — на ней держится лайтбокс.
 
 ## Локальный просмотр
 
@@ -59,4 +68,5 @@ npx --yes vercel@latest --prod --yes
 - Адаптив: `max-width: 480px` (телефон), `481–820px` (планшет), выше — десктоп; плюс `clamp()`.
 - Тёмная тема заменяет интерьер таверны ночной сценой с хижиной. Пока игрок не выбрал тему вручную, сайт берёт её из системных настроек (`prefers-color-scheme`) и следит за их изменением; после клика по переключателю выбор сохраняется в `localStorage` под ключом `ps-theme` и перекрывает системный.
 - Кнопка «Поделиться» рядом с Discord использует системное меню (`navigator.share`), а там, где его нет, копирует ссылку в буфер. Кнопки одинаковой ширины, поэтому подпись «СКОПИРОВАНО» не двигает вёрстку.
+- Кнопка «наверх» появляется после 600 px прокрутки, скип-линк ведёт сразу к сцене. Все анимации (фонари, пар, звёзды, дым, покачивание вывески) отключаются при `prefers-reduced-motion: reduce`.
 - Внешних зависимостей нет: шрифты, иконки и превью лежат в репозитории. Единственный внешний запрос — статус сервера через `api.mcsrvstat.us`; без сети страница работает как обычно.
